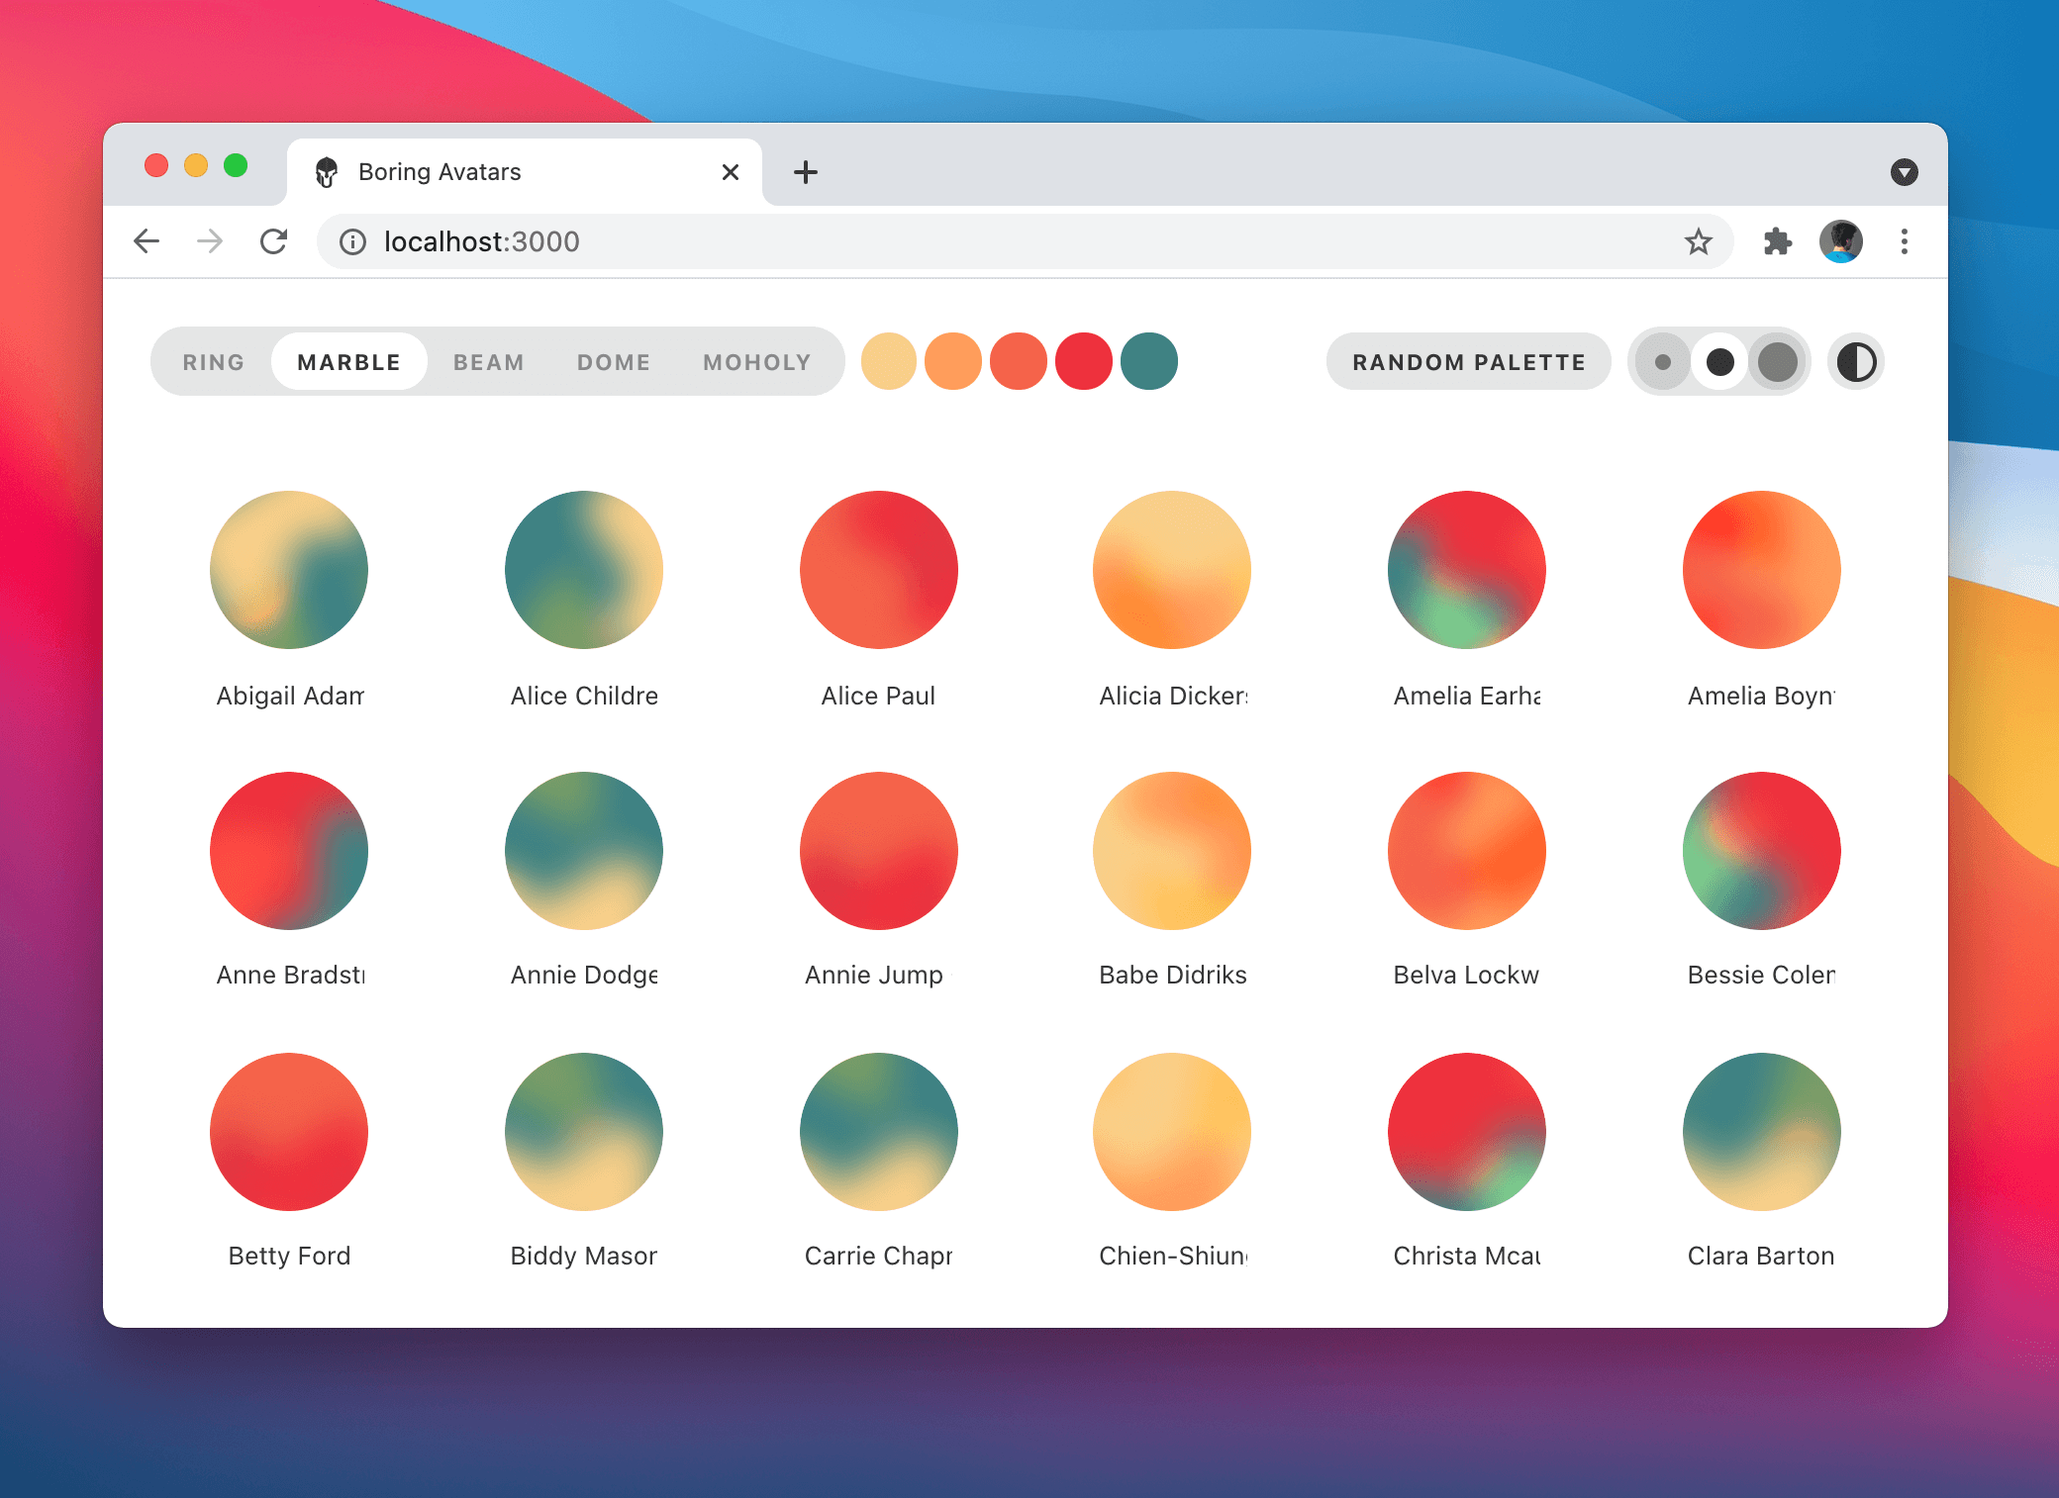
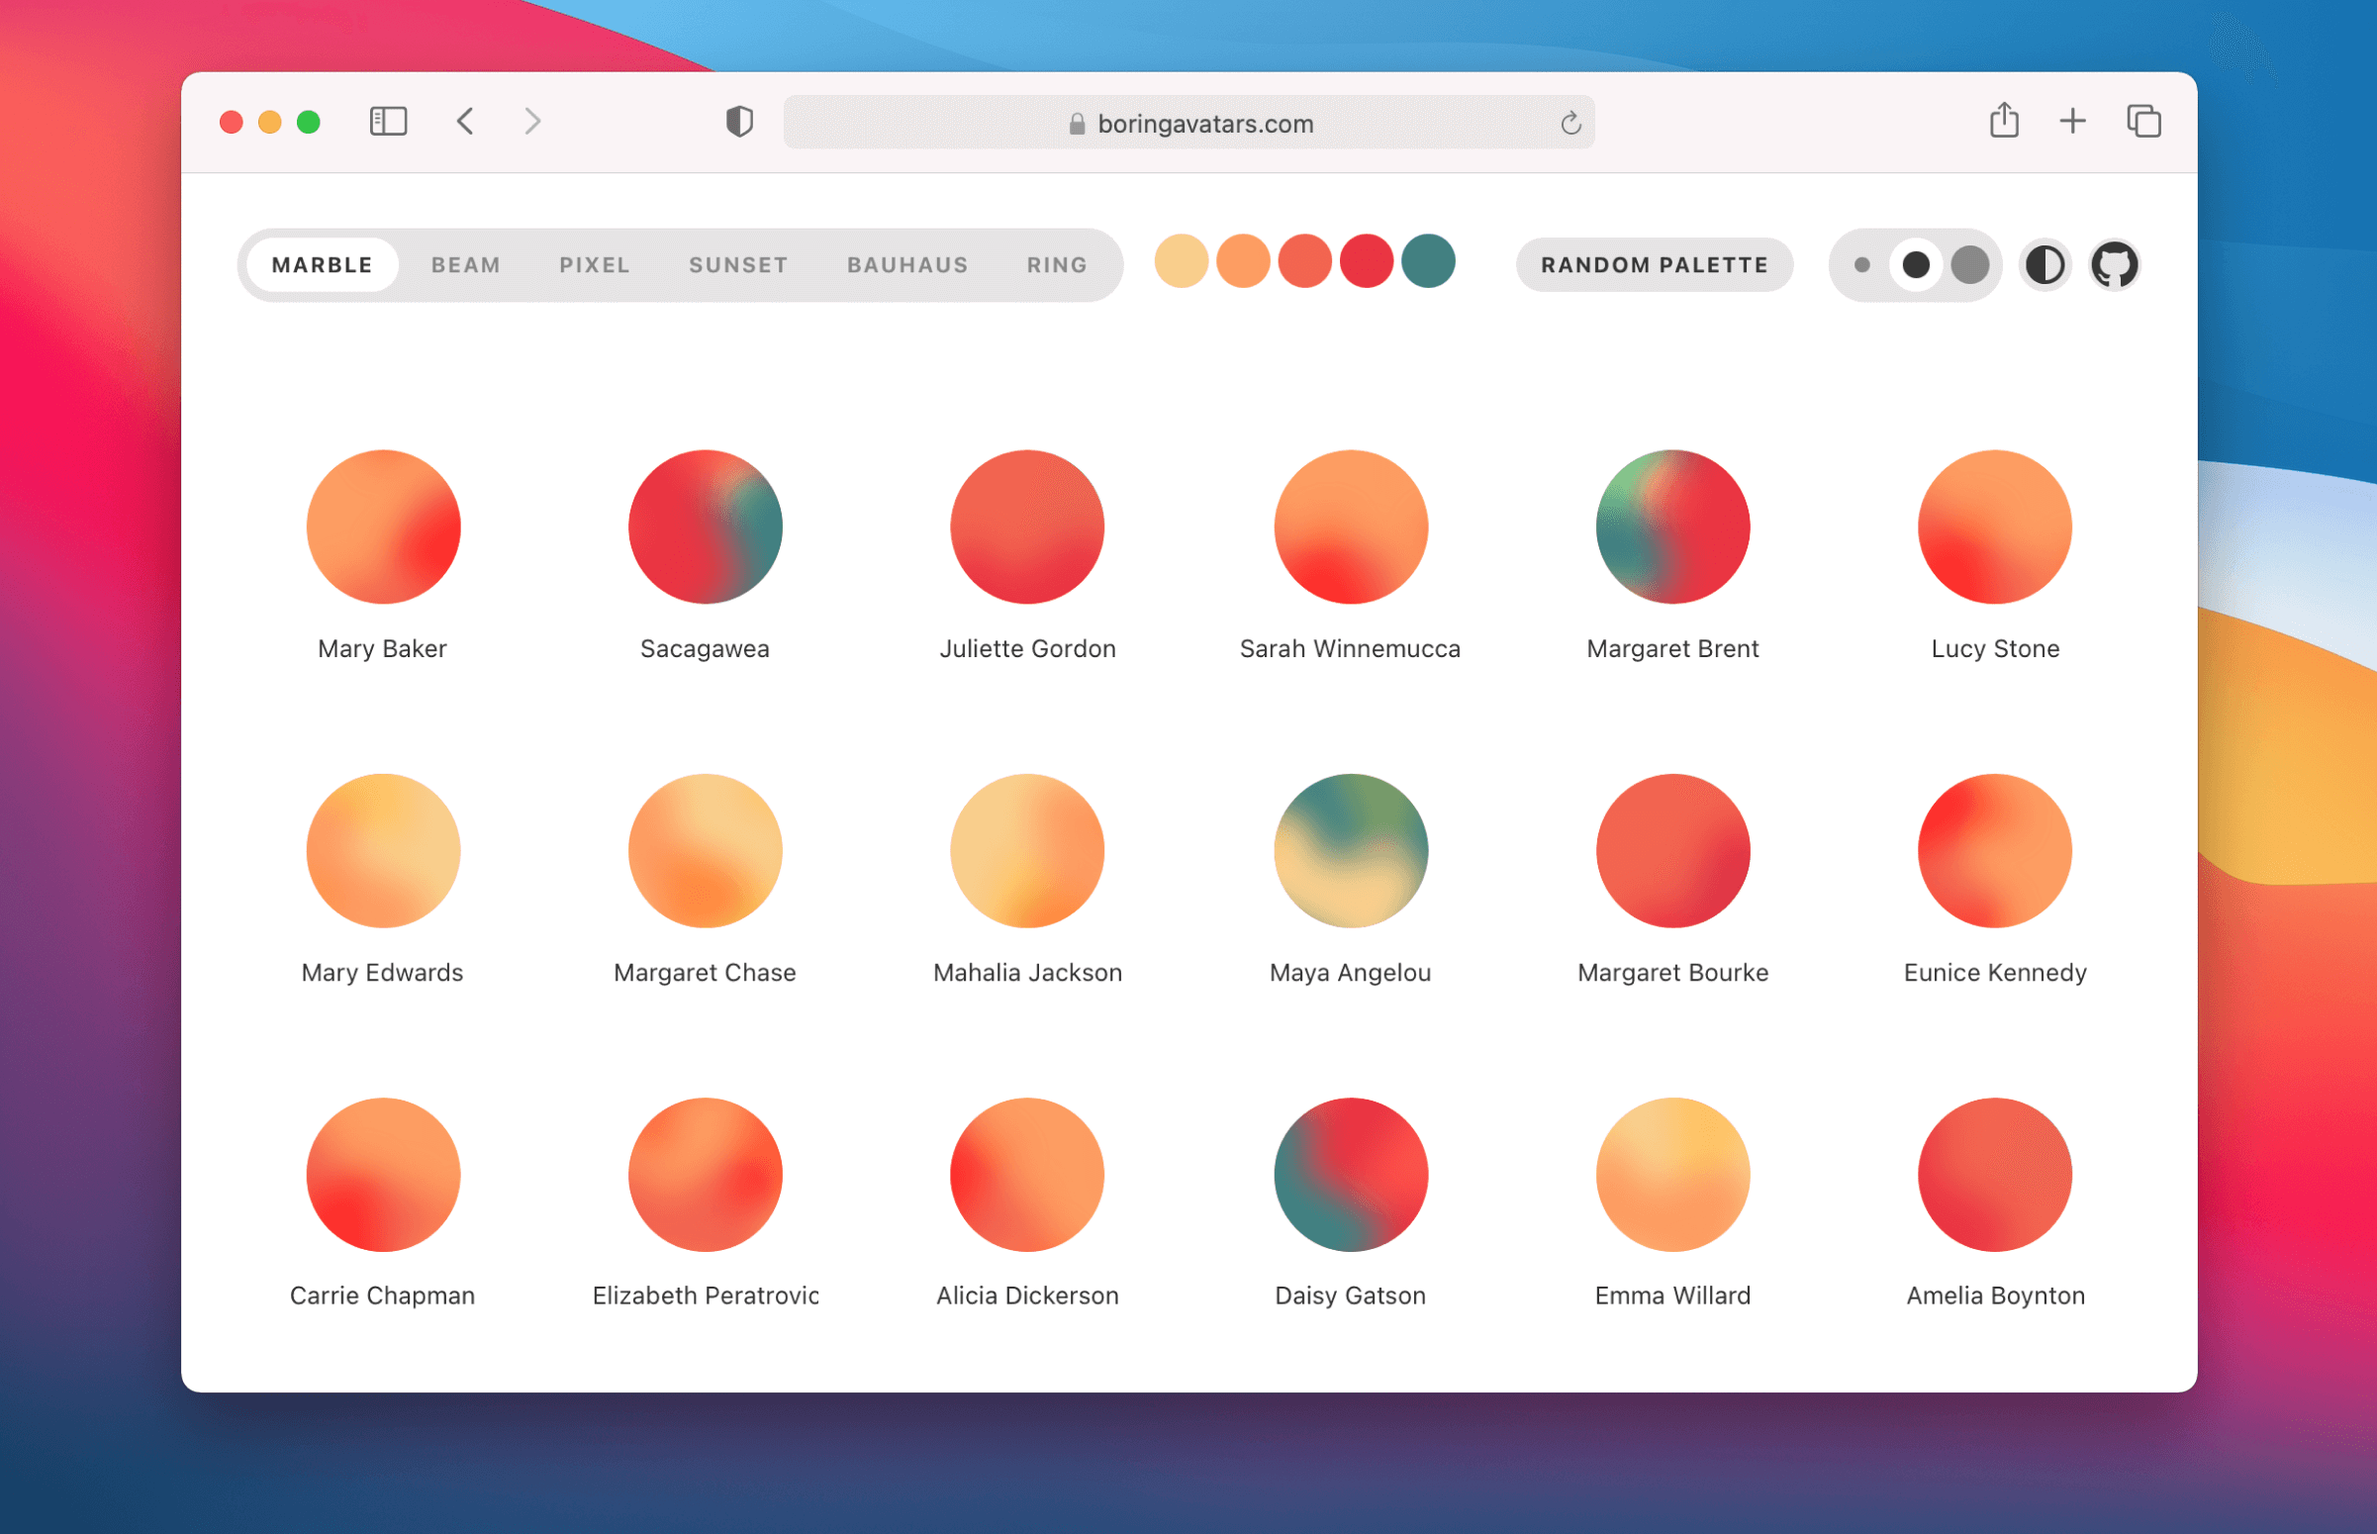
chore(*): Adjust names, preview image and footer

diff --git a/src/playground.js b/src/playground.js
@@ -153,8 +153,11 @@ const FooterMadeBy = styled.p`
   margin: 0;
   color: var(--c-body-secondary);
   text-align: left;
+  display: flex;
+  justify-content: space-between;
 
   a {
+    font-weight: 600;
     color: ${p => p.color};
   }
 `
@@ -181,7 +184,7 @@ const variants = {
 }
 
 const Playground = () => {
-  const defaultPlaygroundColors = paletteColors[69]
+  const defaultPlaygroundColors = paletteColors[39]
   const [playgroundColors, setPlaygroundColors] = useState(defaultPlaygroundColors)
 
   const [darkMode, setDarkMode] = useState(false)
@@ -289,7 +292,16 @@ const Playground = () => {
         ))}
       </AvatarsGrid>
       <Footer>
-          <FooterMadeBy color={dotColor0}>
+          <FooterMadeBy color={dotColor3}>
+            <small>
+              Names from
+              {" "}
+              <a href="https://notablewomen.withgoogle.com/all" target="_blank" rel="noreferrer noopener">Notable Women</a>
+              , colors from
+              {" "}
+              <a href="https://github.com/Jam3/nice-color-palettes" target="_blank" rel="noreferrer noopener">Nice Color Palettes</a>
+              .
+            </small>
             <small>
               Made by
               {" "}
@@ -298,9 +310,6 @@ const Playground = () => {
               and
               {" "}
               <a href="https://josepmartins.com/" target="_blank" rel="noreferrer noopener">Josep Martins</a>
-              . Names from
-              {" "}
-              <a href="https://notablewomen.withgoogle.com/all" target="_blank" rel="noreferrer noopener">Notable Women</a>
               .
             </small>
           </FooterMadeBy>

diff --git a/src/example-names.js b/src/example-names.js
@@ -1,8 +1,8 @@
 // Names from https://notablewomen.withgoogle.com/all
 export const exampleNames = [
   "Mary Baker",
-  "Sacagawea",
-  "Juliette Gordon",
+  "Amelia Earhart",
+  "Mary Roebling",
   "Sarah Winnemucca",
   "Margaret Brent",
   "Lucy Stone",
@@ -24,7 +24,7 @@ export const exampleNames = [
   "Coretta Scott",
   "Harriet Tubman",
   "Fabiola Cabeza",
-  "Mother Frances",
+  "Sacagawea",
   "Esther Martinez",
   "Elizabeth Cady",
   "Bessie Coleman",
@@ -47,7 +47,7 @@ export const exampleNames = [
   "Zora Neale",
   "Wilma Rudolph",
   "Annie Jump",
-  "Amelia Earhart",
+  "Mother Frances",
   "Jovita Idár",
   "Maggie L",
   "Henrietta Swan",
@@ -61,7 +61,7 @@ export const exampleNames = [
   "Alice Paul",
   "Frances Willard",
   "Sally Ride",
-  "Mary Roebling",
+  "Juliette Gordon",
   "Queen Lili",
   "Katharine Lee",
   "Harriet Beecher",

diff --git a/public/index.html b/public/index.html
@@ -32,8 +32,8 @@
     <meta property="og:url" content="https://boringavatars.com">
     <meta property="og:title" content="Avatar generator playground - Boring Avatars">
     <meta property="og:description" content="Boring avatars is a tiny JavaScript React library that generates custom, SVG-based, round avatars from any username and color palette.">
-    <meta property="og:image:height" content="1000">
-    <meta property="og:image:width" content="720">
+    <meta property="og:image:height" content="400">
+    <meta property="og:image:width" content="400">
     <meta property="og:image:alt" content="Preview of the boring avatars generator playground">
     <meta property="og:image" content="%PUBLIC_URL%/boring-avatars.jpg">
 
